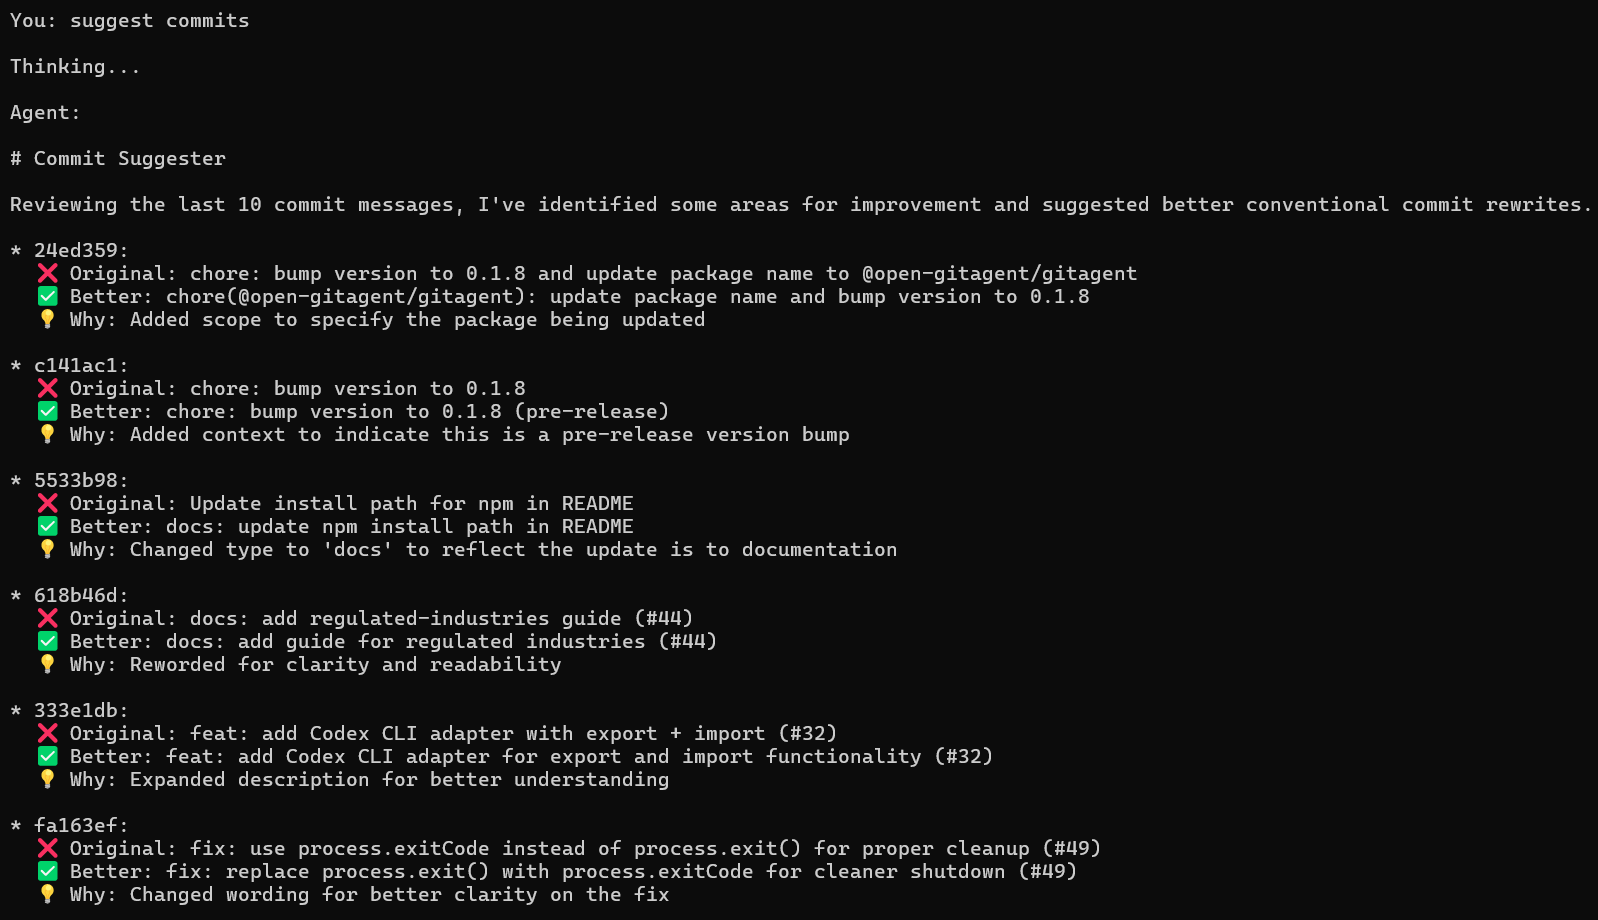
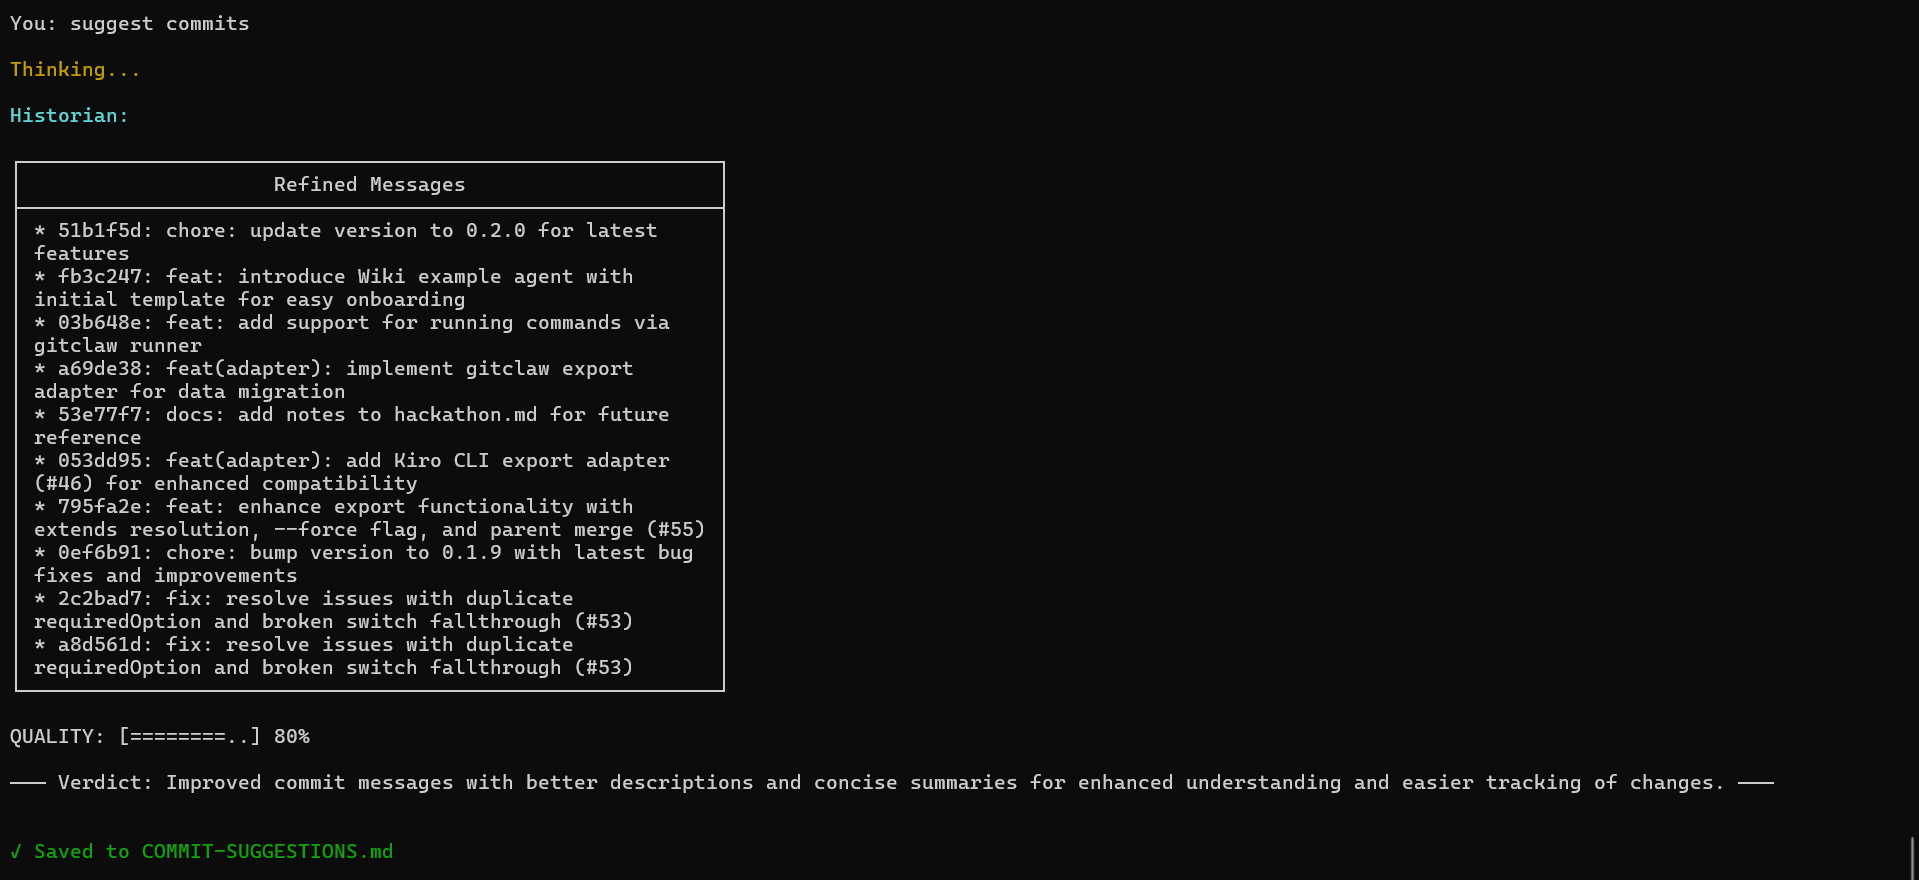
Updated Screenshots x6

diff --git a/COMMIT-SUGGESTIONS.md b/COMMIT-SUGGESTIONS.md
@@ -1,57 +1,16 @@
-# Commit Suggester
+[BOX]Refined Messages | 
+* 51b1f5d: chore: update version to 0.2.0 for latest features
+* fb3c247: feat: introduce Wiki example agent with initial template for easy onboarding
+* 03b648e: feat: add support for running commands via gitclaw runner
+* a69de38: feat(adapter): implement gitclaw export adapter for data migration
+* 53e77f7: docs: add notes to hackathon.md for future reference
+* 053dd95: feat(adapter): add Kiro CLI export adapter (#46) for enhanced compatibility
+* 795fa2e: feat: enhance export functionality with extends resolution, --force flag, and parent merge (#55)
+* 0ef6b91: chore: bump version to 0.1.9 with latest bug fixes and improvements
+* 2c2bad7: fix: resolve issues with duplicate requiredOption and broken switch fallthrough (#53)
+* a8d561d: fix: resolve issues with duplicate requiredOption and broken switch fallthrough (#53)
+[/BOX]
 
-Reviewing the last 10 commit messages, I've identified some areas for improvement and suggested better conventional commit rewrites.
+[BAR]80 | QUALITY[/BAR]
 
-* 24ed359: 
-  ❌ Original: chore: bump version to 0.1.8 and update package name to @open-gitagent/gitagent
-  ✅ Better: chore(@open-gitagent/gitagent): update package name and bump version to 0.1.8
-  💡 Why: Added scope to specify the package being updated
-
-* c141ac1: 
-  ❌ Original: chore: bump version to 0.1.8
-  ✅ Better: chore: bump version to 0.1.8 (pre-release)
-  💡 Why: Added context to indicate this is a pre-release version bump
-
-* 5533b98: 
-  ❌ Original: Update install path for npm in README
-  ✅ Better: docs: update npm install path in README
-  💡 Why: Changed type to 'docs' to reflect the update is to documentation
-
-* 618b46d: 
-  ❌ Original: docs: add regulated-industries guide (#44)
-  ✅ Better: docs: add guide for regulated industries (#44)
-  💡 Why: Reworded for clarity and readability
-
-* 333e1db: 
-  ❌ Original: feat: add Codex CLI adapter with export + import (#32)
-  ✅ Better: feat: add Codex CLI adapter for export and import functionality (#32)
-  💡 Why: Expanded description for better understanding
-
-* fa163ef: 
-  ❌ Original: fix: use process.exitCode instead of process.exit() for proper cleanup (#49)
-  ✅ Better: fix: replace process.exit() with process.exitCode for cleaner shutdown (#49)
-  💡 Why: Changed wording for better clarity on the fix
-
-* bf3a363: 
-  ❌ Original: fix: replace execSync with execFileSync to prevent command injection (#48)
-  ✅ Better: fix: mitigate command injection by replacing execSync with execFileSync (#48)
-  💡 Why: Emphasized the security aspect of the fix
-
-* 40c19a2: 
-  ❌ Original: fix: use process.exitCode instead of process.exit() so runner finally blocks clean up temp files
-  ✅ Better: fix: use process.exitCode for proper cleanup and temp file removal
-  💡 Why: Simplified the description while maintaining the essential information
-
-* 2058a95: 
-  ❌ Original: fix: replace execSync string interpolation with execFileSync to prevent command injection
-  ✅ Better: fix: prevent command injection by using execFileSync instead of execSync
-  💡 Why: Made the description more concise and focused on the solution
-
-* 01f72c7: 
-  ❌ Original: feat: add Google Gemini CLI adapter (#33)
-  ✅ Better: feat: add Google Gemini CLI adapter for simplified integration (#33)
-  💡 Why: Added context to highlight the benefit of the new feature
-
-**Commit Quality Score: 7/10**
-
-Most commit messages follow the conventional commit format, but some could be improved with more descriptive and concise language. Additionally, some commits could benefit from more specific scopes or clearer descriptions of the changes made.
+─── Verdict: Improved commit messages with better descriptions and concise summaries for enhanced understanding and easier tracking of changes. ───
